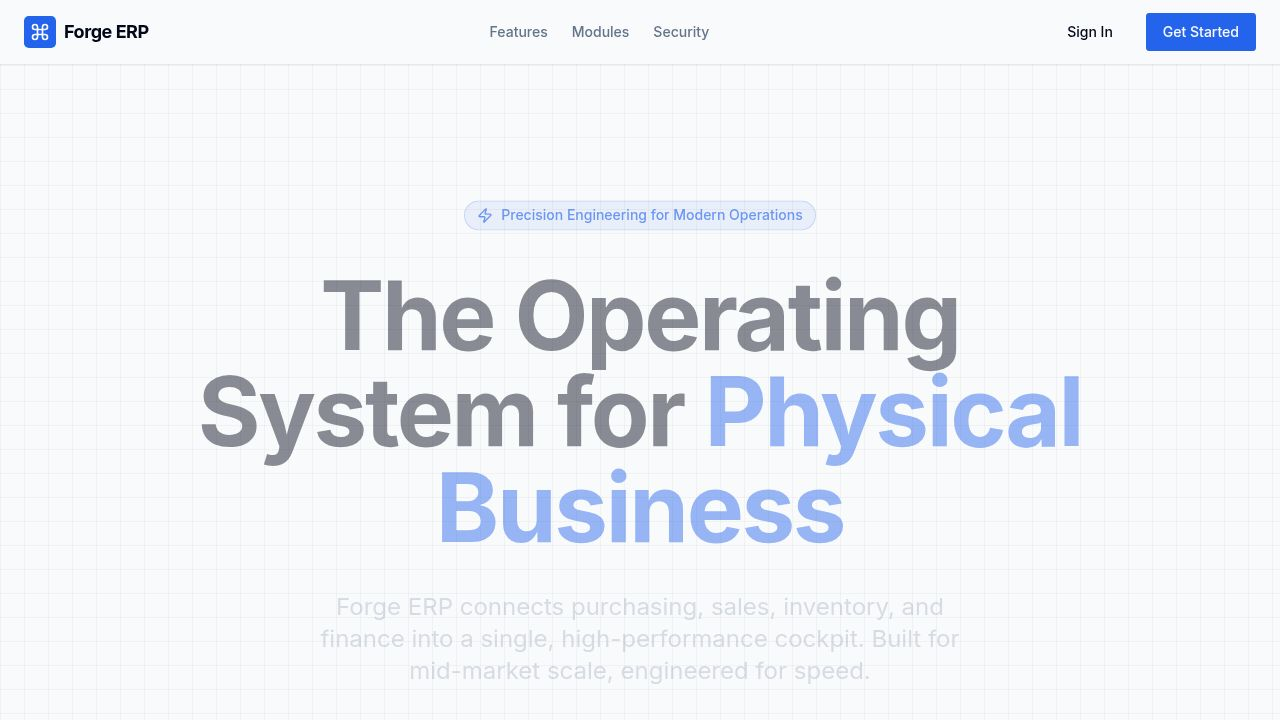
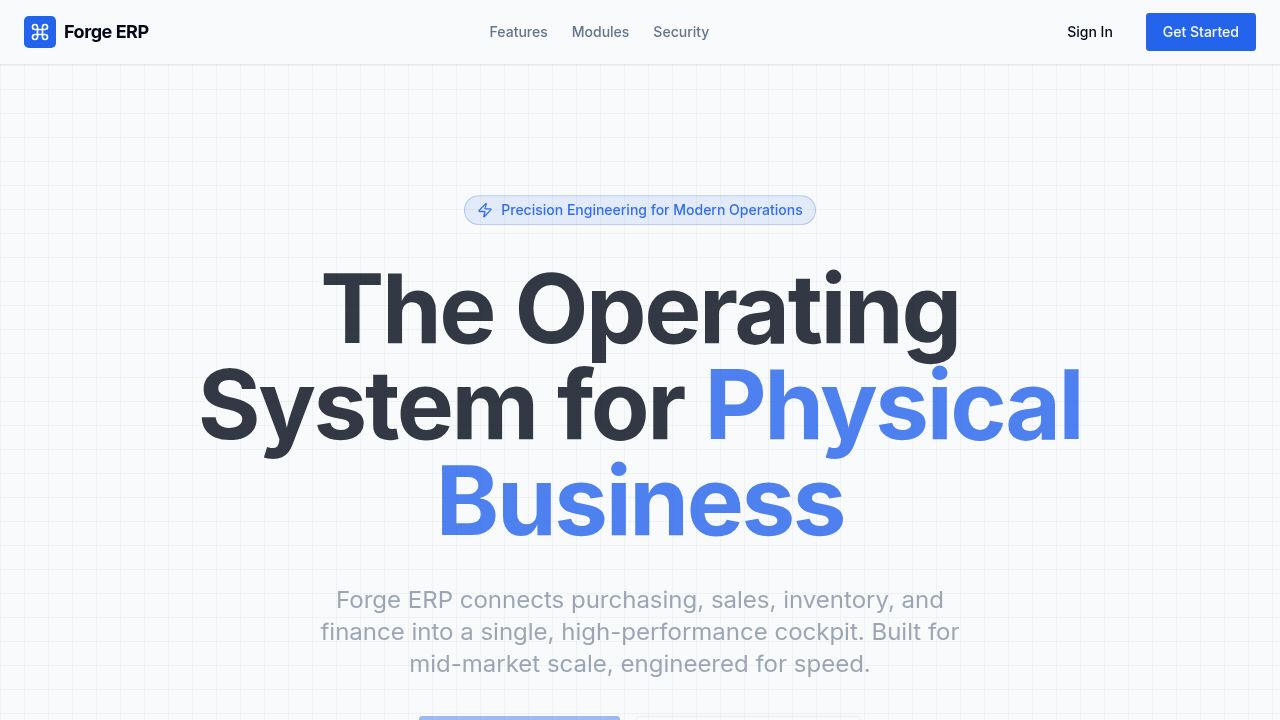
Task #52: Reset tenant data and set up Global Admin login
What changed
- Added `scripts/reset-tenant-data.sh`: dev-only one-shot wipe that
  `DELETE FROM tenants` (cascades to all 50+ tenant-scoped tables) and
  `TRUNCATE`s `audit_logs`, `onboarding_sessions`, and `users`. Schema,
  enums and RLS policies are untouched. Ran it once — all counts now zero.
- Added `scripts/src/grant-super-admin.ts` + a workspace `pnpm
  grant-super-admin <email>` script (root forwards to
  `@user/scripts grant-super-admin`). Looks up the active
  tenant_membership for the email (case-insensitive), promotes/demotes
  to/from super_admin, writes an audit_log entry attributed to
  `cli:bootstrap`, and prints the tenant + clerk_id it touched. Exits
  non-zero with a friendly message on zero or multiple matches. `--revoke`
  flag demotes back to tenant_admin and is itself blocked by the
  platform-wide last-super_admin guard.
- Added a dedicated "Make super admin" / "Revoke super admin" row action
  to the Super Admin → Tenant detail → Members card
  (`super-admin.tsx`). Reuses the existing PATCH endpoint. Removed
  super_admin from the regular role dropdown so the dedicated button is
  the canonical path.
- Updated `replit.md` with a "Granting super_admin" section covering the
  CLI, the in-UI button, the platform-wide guard, and the reset script.

Backend changes — none required
- The existing PATCH `/admin/tenants/:id/members/:membershipId` already
  accepts `super_admin` in its allowed-role list AND already enforces a
[…]

diff --git a/scripts/src/grant-super-admin.ts b/scripts/src/grant-super-admin.ts
@@ -1,0 +1,150 @@
+/**
+ * grant-super-admin: Promote (or revoke) a tenant_membership to super_admin.
+ *
+ * Usage:
+ *   pnpm grant-super-admin <email>           # promote to super_admin
+ *   pnpm grant-super-admin <email> --revoke  # demote back to tenant_admin
+ *
+ * Looks up the active tenant_memberships row for <email> (case-insensitive),
+ * updates its `role`, and writes an audit_log entry attributed to
+ * `cli:bootstrap`.
+ *
+ * Errors clearly when there are zero or multiple matches. The user must have
+ * already signed up via Clerk and completed onboarding (which is what creates
+ * the membership row this script promotes).
+ */
+import {
+  adminPool,
+  tenantMembershipsTable,
+  tenantsTable,
+  auditLogsTable,
+} from "@workspace/db";
+import { drizzle } from "drizzle-orm/node-postgres";
+import * as schema from "@workspace/db/schema";
+import { sql, eq, and } from "drizzle-orm";
+
+const adminDb = drizzle(adminPool, { schema });
+
+async function main(): Promise<number> {
+  const args = process.argv.slice(2).filter((a) => a !== "--");
+  const revoke = args.includes("--revoke");
+  const positional = args.filter((a) => !a.startsWith("--"));
+  const email = positional[0];
+
+  if (!email) {
+    console.error("Usage: pnpm grant-super-admin <email> [--revoke]");
+    return 2;
+  }
+
+  const lowered = email.trim().toLowerCase();
+  const newRole: "super_admin" | "tenant_admin" = revoke
+    ? "tenant_admin"
+    : "super_admin";
+
+  const matches = await adminDb
+    .select({
+      id: tenantMembershipsTable.id,
+      tenantId: tenantMembershipsTable.tenantId,
+      tenantName: tenantsTable.name,
+      tenantSlug: tenantsTable.slug,
+      clerkId: tenantMembershipsTable.clerkId,
+      email: tenantMembershipsTable.email,
+      role: tenantMembershipsTable.role,
+      isActive: tenantMembershipsTable.isActive,
+    })
+    .from(tenantMembershipsTable)
+    .innerJoin(tenantsTable, eq(tenantsTable.id, tenantMembershipsTable.tenantId))
+    .where(
+      and(
+        sql`lower(${tenantMembershipsTable.email}) = ${lowered}`,
+        eq(tenantMembershipsTable.isActive, "true"),
+      ),
+    );
+
+  if (matches.length === 0) {
+    console.error(
+      `No active tenant_membership found for "${email}". The user must sign up via Clerk and complete onboarding before promotion.`,
+    );
+    return 1;
+  }
+  if (matches.length > 1) {
+    console.error(
+      `Multiple active memberships found for "${email}" — refusing to promote ambiguously. Found:`,
+    );
+    for (const m of matches) {
+      console.error(
+        `  membership_id=${m.id} tenant=${m.tenantName} (${m.tenantSlug}, id=${m.tenantId}) clerk_id=${m.clerkId} role=${m.role}`,
+      );
+    }
+    return 1;
+  }
+
+  const target = matches[0]!;
+
+  if (revoke && target.role !== "super_admin") {
+    console.error(
+      `Membership for "${email}" is not a super_admin (current role: ${target.role}). Nothing to revoke.`,
+    );
+    return 1;
+  }
+
+  if (!revoke && target.role === "super_admin") {
+    console.log(
+      `Membership for "${email}" is already super_admin. No change.`,
+    );
+    return 0;
+  }
+
+  // Last-super-admin platform protection on revoke
+  if (revoke) {
+    const [{ remaining } = { remaining: 0 }] = await adminDb
+      .select({ remaining: sql<number>`COUNT(*)::int` })
+      .from(tenantMembershipsTable)
+      .where(
+        sql`${tenantMembershipsTable.role} = 'super_admin'
+            AND ${tenantMembershipsTable.isActive} = 'true'
+            AND ${tenantMembershipsTable.id} <> ${target.id}`,
+      );
+    if (Number(remaining) === 0) {
+      console.error(
+        `Refusing to revoke "${email}" — at least one active super_admin must remain on the platform.`,
+      );
+      return 1;
+    }
+  }
+
+  await adminDb.transaction(async (tx) => {
+    await tx
+      .update(tenantMembershipsTable)
+      .set({ role: newRole })
+      .where(eq(tenantMembershipsTable.id, target.id));
+
+    await tx.insert(auditLogsTable).values({
+      tenantId: target.tenantId,
+      actorClerkId: "cli:bootstrap",
+      actorEmail: "cli:bootstrap",
+      action: revoke ? "tenant_member.revoke_super_admin" : "tenant_member.grant_super_admin",
+      entityType: "tenant_membership",
+      entityId: String(target.id),
+      oldValues: { role: target.role },
+      newValues: { role: newRole },
+    });
+  });
+
+  console.log(
+    `${revoke ? "Revoked" : "Granted"} ${revoke ? "super_admin from" : "super_admin to"} "${target.email}" ` +
+      `(membership_id=${target.id}, tenant=${target.tenantName} [${target.tenantSlug}, id=${target.tenantId}], clerk_id=${target.clerkId}).`,
+  );
+  return 0;
+}
+
+main()
+  .then(async (code) => {
+    await adminPool.end().catch(() => {});
+    process.exit(code);
+  })
+  .catch(async (err) => {
+    console.error(err);
+    await adminPool.end().catch(() => {});
+    process.exit(1);
+  });

diff --git a/artifacts/forge-erp/src/pages/super-admin.tsx b/artifacts/forge-erp/src/pages/super-admin.tsx
@@ -635,6 +635,9 @@ function ConfirmDialog({
 
 // ── Tenant members card ───────────────────────────────────────────────────────
 
+// Tenant-scoped roles selectable from the per-row dropdown.
+// `super_admin` is intentionally excluded — it's a platform-wide role and is
+// granted/revoked via the dedicated "Make/Revoke super admin" button below.
 const ROLE_OPTIONS: Array<AdminTenantMember["role"]> = [
   "tenant_admin",
   "purchaser",
@@ -642,7 +645,6 @@ const ROLE_OPTIONS: Array<AdminTenantMember["role"]> = [
   "approver",
   "accountant",
   "viewer",
-  "super_admin",
 ];
 
 function RoleBadge({ role }: { role: string }) {
@@ -1015,6 +1017,40 @@ function TenantMembersCard({
                       )}
                     </Button>
                   </div>
+                  {/* Dedicated platform-wide super_admin grant/revoke. */}
+                  {!isPending && (
+                    <div className="flex items-center gap-2 pt-1">
+                      <Button
+                        variant={
+                          m.role === "super_admin" ? "destructive" : "secondary"
+                        }
+                        size="sm"
+                        className="h-7 text-xs whitespace-nowrap"
+                        onClick={() =>
+                          handleUpdate(m.id, {
+                            role:
+                              m.role === "super_admin"
+                                ? "tenant_admin"
+                                : "super_admin",
+                          })
+                        }
+                        disabled={updateMember.isPending || !m.isActive}
+                        data-testid={`member-toggle-super-admin-${m.id}`}
+                        title={
+                          !m.isActive
+                            ? "Reactivate the member before changing super_admin status"
+                            : m.role === "super_admin"
+                              ? "Demote this user back to tenant_admin"
+                              : "Grant platform-wide super_admin access"
+                        }
+                      >
+                        <Shield className="mr-1 h-3 w-3" />
+                        {m.role === "super_admin"
+                          ? "Revoke super admin"
+                          : "Make super admin"}
+                      </Button>
+                    </div>
+                  )}
                 </div>
               );
             })}

diff --git a/replit.md b/replit.md
@@ -26,6 +26,7 @@ The frontend utilizes React with Vite, styled using Tailwind CSS v4, shadcn/ui f
 **Feature Specifications:**
 - **Multi-tenancy:** Core to the platform, with a `tenants` table and RLS policies ensuring data segregation.
 - **Role-Based Access Control (RBAC):** Defined roles (`super_admin`, `tenant_admin`, `purchaser`, `warehouse`, `approver`, `accountant`, `viewer`) govern access.
+- **Granting super_admin:** Bootstrap the first platform admin from a shell with `pnpm grant-super-admin <email>` (the user must already have signed up via Clerk and completed onboarding so a tenant_membership row exists). Pass `--revoke` to demote back to `tenant_admin`. Once at least one super_admin exists, additional super_admins can be granted/revoked from the UI: Super Admin → Tenant detail → Members → "Make super admin" / "Revoke super admin" button. The PATCH and CLI both enforce a platform-wide last-super_admin guard (`code: "LAST_SUPER_ADMIN"`) so the platform can never be locked out. To wipe all tenant data in dev, run `bash scripts/reset-tenant-data.sh` (deletes from `tenants` cascading to all tenant-scoped tables, then truncates `audit_logs`, `onboarding_sessions`, `users`).
 - **Audit Logging:** A comprehensive `audit_logs` table records all system actions. Super admins can browse audit history via the "Audit Logs" tab on `/super-admin`, with client-side filtering by tenant and action and 50-per-page pagination.
 - **Onboarding Wizard:** A 5-step self-serve onboarding process for new tenants, including company details, structure, master data import, plan/payment setup, and team invitations.
 - **Modules:**